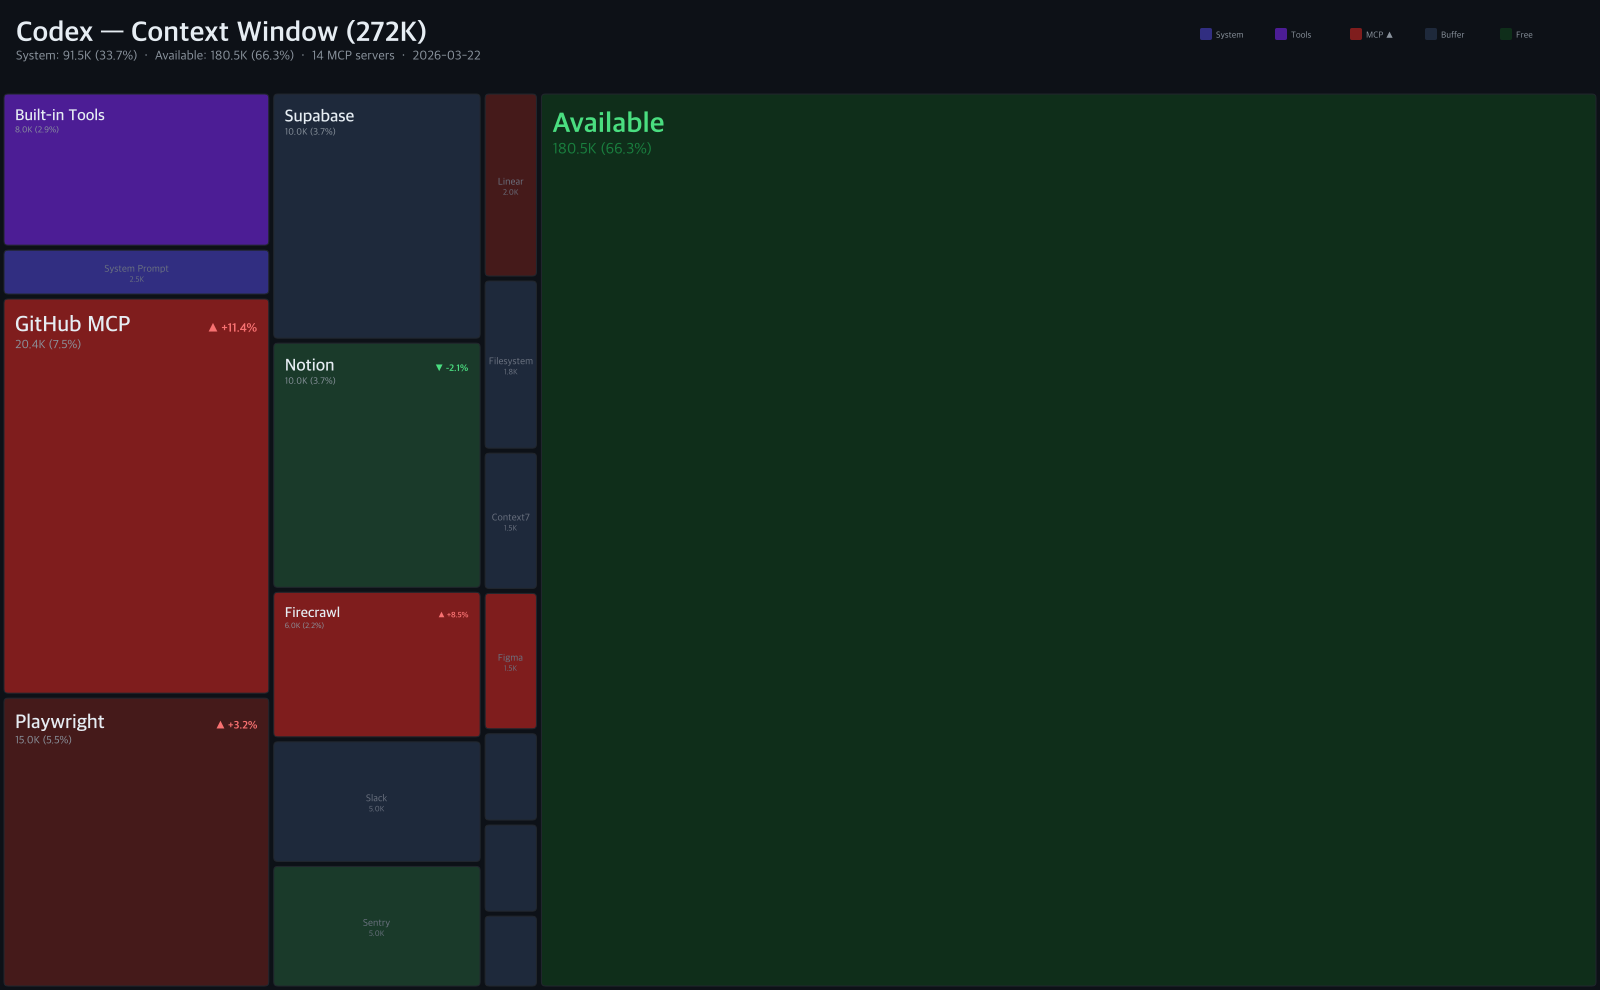
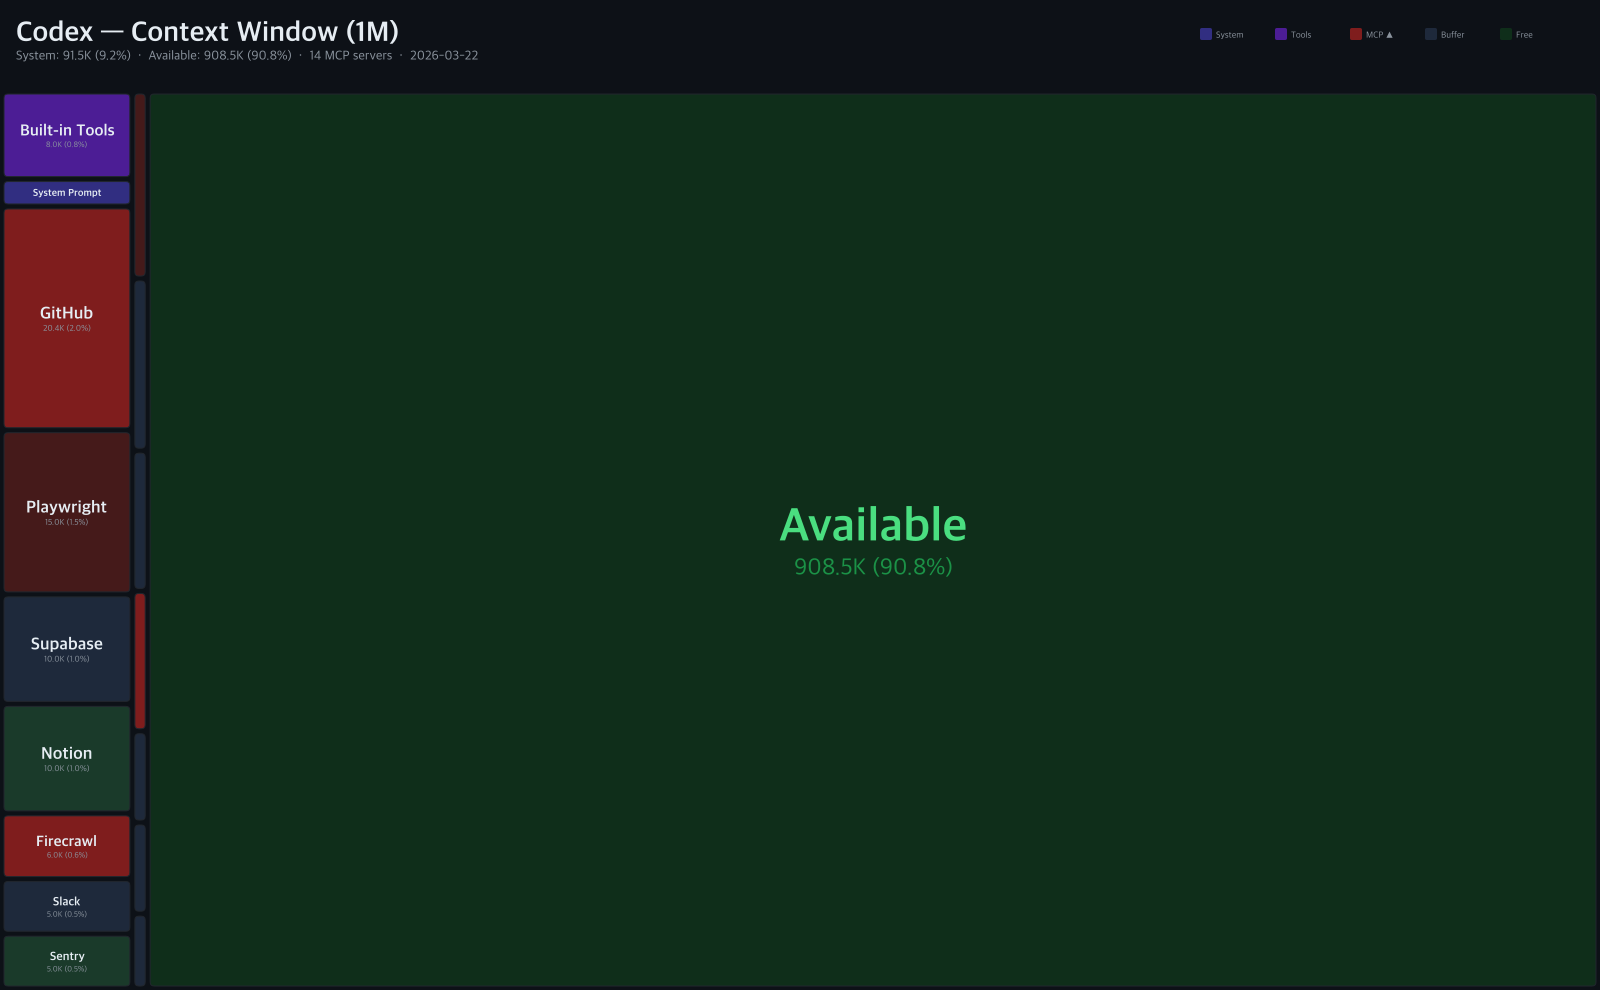
Stock-style centered labels + Codex 1M context
- Treemap labels: name centered big, sub-info below (stock ticker style)
- Codex context window updated to 1M (gpt-5.4 max)
- Both agents now on 1M for consistent comparison

Changed region(s): [[0.0, 0.0909, 0.4062, 1.0], [0.0625, 0.0, 0.3125, 0.0606], [0.4688, 0.5152, 0.625, 0.5758]]

diff --git a/scripts/render-treemap.js b/scripts/render-treemap.js
@@ -61,6 +61,29 @@ function setFont(ctx, size, weight = 'normal') {
   ctx.font = `${w} ${size}px "Inter", "Apple SD Gothic Neo", "Noto Sans KR", sans-serif`;
 }
 
+/**
+ * Calculate font size that makes text fill ~targetRatio of the block width.
+ * Uses canvas measureText for accuracy.
+ */
+function fitFontSize(ctx, text, blockW, blockH, weight = 'bold', targetRatio = 0.85, maxLines = 3) {
+  const maxByHeight = blockH / (maxLines * 1.6);
+  let fs = Math.min(blockW * 0.15, maxByHeight, 48);
+
+  // Binary search for best fit
+  let lo = 8, hi = fs;
+  for (let i = 0; i < 10; i++) {
+    const mid = (lo + hi) / 2;
+    setFont(ctx, mid, weight);
+    const measured = ctx.measureText(text).width;
+    if (measured < blockW * targetRatio) {
+      lo = mid;
+    } else {
+      hi = mid;
+    }
+  }
+  return Math.max(10, Math.floor(lo));
+}
+
 // ── Load Data ────────────────────────────────────────────
 
 function loadLatestSnapshot() {
@@ -133,63 +156,46 @@ function renderMcpTreemap(snapshot) {
     roundRect(ctx, x + 1, y + 1, w - 2, h - 2, 4);
     ctx.stroke();
 
-    const areaRatio = (w * h) / (W * H);
+    // Stock-style centered label: NAME big + sub-info below
+    const pad = 6;
+    const innerW = w - pad * 2;
+    const innerH = h - pad * 2;
+    if (innerW < 15 || innerH < 12) continue;
 
-    if (areaRatio > 0.04) {
-      // Large block: full detail
-      const fs = Math.min(28, Math.max(14, Math.pow(areaRatio, 0.35) * 60));
+    ctx.textAlign = 'center';
+    const cx = x + w / 2;
+    const cy = y + h / 2;
 
-      // Name (top-left)
-      setFont(ctx, fs, 'bold');
-      ctx.fillStyle = STYLE.textPrimary;
-      ctx.textAlign = 'left';
-      ctx.fillText(d.name, x + 12, y + 12 + fs);
+    // Short name for fitting
+    const shortName = d.name.replace(' MCP', '').replace(' Server', '');
 
-      // Tokens + tools
-      setFont(ctx, fs * 0.55);
-      ctx.fillStyle = STYLE.textSecondary;
-      ctx.fillText(`${d.tokens.toLocaleString()} tokens · ${d.tools} tools`, x + 12, y + 12 + fs + fs * 0.75);
+    // Line 1: Name (big, bold) — fit to block width
+    const nameFs = fitFontSize(ctx, shortName, innerW, innerH, 'bold', 0.85, 2);
 
-      // Version
-      if (d.version) {
-        setFont(ctx, fs * 0.45);
-        ctx.fillStyle = STYLE.textMuted;
-        ctx.fillText(`v${d.version}`, x + 12, y + 12 + fs + fs * 0.75 + fs * 0.6);
-      }
+    // Line 2: sub info — tokens or change
+    const changeTxt = changePct > 0 ? `+${changePct}%` : changePct < 0 ? `${changePct}%` : '';
+    const subText = innerH > nameFs * 2
+      ? `${formatTokens(d.tokens)}  ${changeTxt}`
+      : changeTxt || formatTokens(d.tokens);
+    const subFs = Math.max(8, nameFs * 0.5);
 
-      // Change badge (top-right)
-      if (changePct !== 0) {
-        const arrow = changePct > 0 ? `▲ +${changePct}%` : `▼ ${changePct}%`;
-        setFont(ctx, fs * 0.6, 'bold');
-        ctx.fillStyle = changeBadgeColor(changePct);
-        ctx.textAlign = 'right';
-        ctx.fillText(arrow, x + w - 12, y + 12 + fs);
-        ctx.textAlign = 'left';
-      }
-    } else if (areaRatio > 0.008) {
-      // Medium block
-      const fs = Math.max(11, Math.pow(areaRatio, 0.45) * 50);
-      setFont(ctx, fs, 'semibold');
-      ctx.fillStyle = STYLE.textPrimary;
-      ctx.textAlign = 'center';
-      ctx.fillText(d.name, x + w / 2, y + h / 2 - 4);
+    // Calculate vertical centering
+    const totalTextH = innerH > nameFs * 1.8 ? nameFs + subFs * 1.2 : nameFs;
+    const startY = cy - totalTextH / 2;
 
-      setFont(ctx, fs * 0.65);
-      const changeTxt = changePct !== 0
-        ? (changePct > 0 ? `▲+${changePct}%` : `▼${changePct}%`)
-        : '';
+    // Draw name
+    setFont(ctx, nameFs, 'bold');
+    ctx.fillStyle = STYLE.textPrimary;
+    ctx.fillText(shortName, cx, startY + nameFs * 0.85);
+
+    // Draw sub-info if space
+    if (innerH > nameFs * 1.8) {
+      setFont(ctx, subFs);
       ctx.fillStyle = changePct !== 0 ? changeBadgeColor(changePct) : STYLE.textSecondary;
-      ctx.fillText(`${formatTokens(d.tokens)}  ${changeTxt}`, x + w / 2, y + h / 2 + fs * 0.7);
-      ctx.textAlign = 'left';
-    } else if (areaRatio > 0.003) {
-      // Small block: name only
-      const fs = Math.max(9, Math.pow(areaRatio, 0.45) * 40);
-      setFont(ctx, fs);
-      ctx.fillStyle = STYLE.textMuted;
-      ctx.textAlign = 'center';
-      ctx.fillText(d.name.split(' ')[0], x + w / 2, y + h / 2 + 3);
-      ctx.textAlign = 'left';
+      ctx.fillText(subText, cx, startY + nameFs * 0.85 + subFs * 1.4);
     }
+
+    ctx.textAlign = 'left';
   }
 
   // ── Header ──
@@ -296,39 +302,35 @@ function renderAgentContext(agentName, agentData, mcpSnapshot) {
     roundRect(ctx, x + 1, y + 1, w - 2, h - 2, 4);
     ctx.stroke();
 
-    const areaRatio = (w * h) / (W * H);
     const isFree = d.category === 'free';
     const pct = (d.tokens / TOTAL * 100).toFixed(1);
+    const pad = 6;
+    const innerW = w - pad * 2;
+    const innerH = h - pad * 2;
+    if (innerW < 15 || innerH < 12) continue;
 
-    if (areaRatio > 0.02) {
-      const fs = Math.min(28, Math.max(12, Math.pow(areaRatio, 0.35) * 55));
-      setFont(ctx, fs, isFree ? 'bold' : 'semibold');
-      ctx.fillStyle = isFree ? STYLE.green : STYLE.textPrimary;
-      ctx.textAlign = 'left';
-      ctx.fillText(d.name, x + 12, y + 12 + fs);
+    ctx.textAlign = 'center';
+    const cx = x + w / 2;
+    const cy = y + h / 2;
 
-      setFont(ctx, fs * 0.55);
-      ctx.fillStyle = isFree ? '#22c55e88' : STYLE.textSecondary;
-      ctx.fillText(`${formatTokens(d.tokens)} (${pct}%)`, x + 12, y + 12 + fs + fs * 0.75);
+    const shortName = d.name.replace(' MCP', '').replace(' Server', '').replace(' Buffer', '\nBuffer');
+    const nameFs = fitFontSize(ctx, shortName.split('\n')[0], innerW, innerH, 'bold', 0.85, 2);
+    const subText = `${formatTokens(d.tokens)} (${pct}%)`;
+    const subFs = Math.max(8, nameFs * 0.5);
+    const totalTextH = innerH > nameFs * 1.8 ? nameFs + subFs * 1.2 : nameFs;
+    const startY = cy - totalTextH / 2;
 
-      if (d.change && d.change !== 0) {
-        const arrow = d.change > 0 ? `▲ +${d.change}%` : `▼ ${d.change}%`;
-        setFont(ctx, fs * 0.55, 'bold');
-        ctx.fillStyle = changeBadgeColor(d.change);
-        ctx.textAlign = 'right';
-        ctx.fillText(arrow, x + w - 12, y + 12 + fs);
-        ctx.textAlign = 'left';
-      }
-    } else if (areaRatio > 0.005) {
-      const fs = Math.max(10, Math.pow(areaRatio, 0.45) * 40);
-      setFont(ctx, fs);
-      ctx.fillStyle = isFree ? STYLE.green : STYLE.textMuted;
-      ctx.textAlign = 'center';
-      ctx.fillText(d.name, x + w / 2, y + h / 2);
-      setFont(ctx, fs * 0.8);
-      ctx.fillText(formatTokens(d.tokens), x + w / 2, y + h / 2 + fs);
-      ctx.textAlign = 'left';
+    setFont(ctx, nameFs, 'bold');
+    ctx.fillStyle = isFree ? STYLE.green : STYLE.textPrimary;
+    ctx.fillText(shortName.split('\n')[0], cx, startY + nameFs * 0.85);
+
+    if (innerH > nameFs * 1.8) {
+      setFont(ctx, subFs);
+      ctx.fillStyle = isFree ? '#22c55eaa' : STYLE.textSecondary;
+      ctx.fillText(subText, cx, startY + nameFs * 0.85 + subFs * 1.4);
     }
+
+    ctx.textAlign = 'left';
   }
 
   // Header
